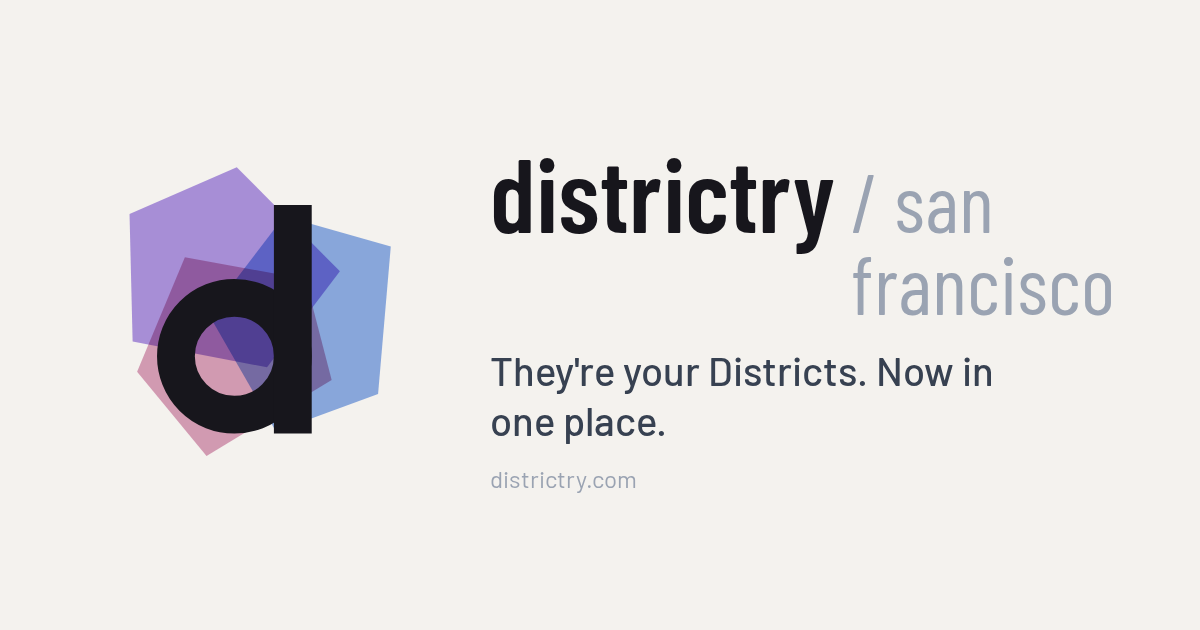
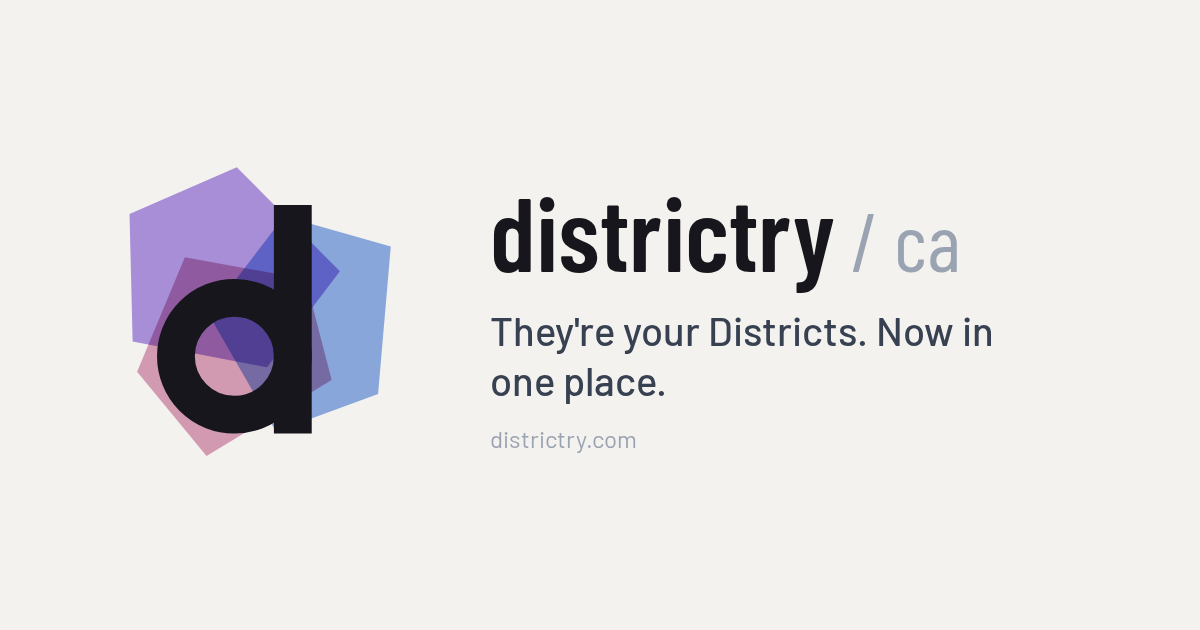
Label the social cards with the instance tag, not the place name
Adam: the long names cause formatting issues, and NYC and SF should be their
state codes rather than city names.

Both are the same fix — the label is now metros.json's `tag`: il, ny, ca, wi,
ia, mi.

The layout half is measurable. "new york city" and "san francisco" wrap to a
second line at 82px and push the strapline down; a two-letter tag never does,
and every future state stops being one long name away from the same problem.

The naming half is the stronger reason and it was already written down.
metros.json's own comment says `tag` is "the instance tag the brand spec sets in
the wordmark (districtry / il)" — so rendering `landing_name` was the card
disagreeing with the brand spec. And NY and CA are state codes on purpose even
though those two instances each serve one city: the tag IS the path, so a card
reading "new york city" over a link to /ny/ names two different things.

Docstring, CLAUDE.md, the CI step comment and the check's own message follow the
field that actually feeds it.

Claude-Session: https://claude.ai/code/session_01GToMhE9mvFjkBzVzZSKVdT

Changed region(s): [[0.4008, 0.2413, 0.925, 0.7238], [0.4008, 0.754, 0.5242, 0.7841]]

diff --git a/CLAUDE.md b/CLAUDE.md
@@ -188,7 +188,7 @@ All inside `index.html`, wrapped in one IIFE. The full contract and per-thread b
 
 All six instances are FOLDERS IN THIS REPO and all six are LIVE (R5; Wisconsin joined in place 2026-08-25 as the first post-consolidation state, Iowa 2026-08-27 as the second — the first to arrive with zero national-tier layers to lean on at any point, since Iowa has no bootstrap-era pre-built files the way Wisconsin's original four did; **Michigan 2026-09-03 as the third**, and the first to arrive DARK across three PRs — national tier, then the `county-commissioner` flagship, then go-live — rather than publishing on arrival): Illinois at `il/` → districtry.com/il/, New York City at `ny/` → districtry.com/ny/, San Francisco at `ca/` → districtry.com/ca/, Wisconsin at `wi/` → districtry.com/wi/, Iowa at `ia/` → districtry.com/ia/, Michigan at `mi/` → districtry.com/mi/.
 
-**MICHIGAN'S GO-LIVE FOUND FOUR THINGS THE WHOLE BATTERY HAD BEEN GREEN ON, and three of them were the same shape: a claim nothing compared against the thing it claimed.** (1) `mi/fonts/` did not exist while `mi/index.html` declared 18 `@font-face` rules against it — the app would have served in system fonts forever, silently — and `mi/og-image.png` did not exist while three tags named it. Neither was catchable: `validate_card_links.py` probes ABSOLUTE urls monthly and a relative `url(fonts/…)` "is not its subject at all", while an absolute url on our own unpublished path looks exactly like somebody else's outage. `scripts/validate_instance_assets.py` now checks every same-origin reference in every authored page against the tree, surface DISCOVERED, with recorded exemptions for Leaflet's own default icons. **THAT GATE ASKED WHETHER THE FILE EXISTS AND NEVER WHAT IS IN IT, and on 2026-09-13 that cost the fleet its social preview.** Adam shared an `/il/` permalink into a Signal group and the link preview showed **CHICAGO DISTRICT EXPLORER · chidistricts.com** — the pre-rebrand card — under a correct districtry title and description, because the title is a meta tag and the card is a PNG. Measured across all seven surfaces, FOUR were wrong: `il/` and `ny/` and `ca/` still on the retired brand with retired subdomains on them (`nyc.chidistricts.com`, `sf.chidistricts.com`) and SAN FRANCISCO'S CARD CARRYING CHICAGO'S FLAG STAR, plus the fleet root labelled **districtry / illinois**, which is one state on the front door of six. 97 of the site's 201 pages name one of those four. **THE THREE THAT WERE RIGHT ARE THE THREE `scripts/build_og_image.mjs` HAS EVER RENDERED** (wi, ia, mi) — the wrong four all predate it — so this was not decay but a renderer that was never run on the surfaces that already had a card. **THE LABEL IS NO LONGER AN ARGUMENT**: it comes from `metros.json`'s `landing_name`, the same field the landing page and coverage map read, because a hand-typed one is exactly how the root came to say illinois — the design source `districtry/OG Card.dc.html` hardcodes it, and it was copied. The root renders with NO label at all rather than an empty one. **AND THE RENDERER NOW RECORDS WHAT IT RENDERED** in `districtry/og-images.json`, so `--check` (Node, no browser, no network, in CI) asserts every surface has an entry, every entry's label still matches `metros.json`, every PNG still hashes to what the renderer wrote, and every card is 1200x630 — which fails on a card never rendered, one replaced by hand, and a `landing_name` changed without a re-render, all three negative-tested. **IT PROVES PROVENANCE AND NOT CORRECTNESS**, and says so in its own OK line: nothing here reads the pixels, so a card whose design is wrong still passes and only a person looking at it will catch that. The duplicate `districtry/og-districtry.png` was retired rather than re-rendered — it was byte-identical to the mislabelled root card and sat beside a paste-in `head-snippet.html` hardcoding "districtry — Illinois", which is the same bug packaged for the next state to paste. (2) `mi/sources.html` served **Iowa's entire identity block** — canonical, `og:url`, `og:site_name`, title and the whole ld+json graph — because the page was cloned from Iowa and only its GENERATED regions were ever regenerated. `page_consistency_test.mjs` passed it, because its canonical check was `!!document.querySelector("link[rel=canonical]")`: it asked whether the tag was THERE and never what it SAID. It now asserts canonical and `og:url` NAME THIS PAGE (all 31 sitemap pages self-canonicalise exactly, measured) and that a page's ld+json stays inside its own `/<tag>/`. **Two more claims joined it on 2026-09-13, both the same shape — something every page was assumed to have and nothing compared.** Six sitemap pages carried NO skip link and no `<main>` at all — the root, `traffic.html` and the four history pages — while the app and the twelve sub-pages carried both, so a keyboard reader met a different site depending where they landed; the gate now requires a skip link whose href RESOLVES (one pointing at an id nothing carries is worse than none, because it reads as present and does nothing) and a `<main>` for it to land in. And it sweeps **WCAG 2.5.8 target size at 390 and 1280 on every page**, which found four link rows short: the app's panel foot at a 2px row gap (16.5px links 18.5px apart), the landing and history footers' wrapped rows, and the map-tile banner's 21x19 dismiss floating over the map, where a miss pans the map. **The audit that reported the first of them had sampled four pages of 37**, which is the whole reason this sweeps every one. Three false positives had to be designed out first and each is written into the collector: a wrapped inline link's `getBoundingClientRect()` is the UNION of its lines (335x45 for one 13.5px footer link), so it measures per `getClientRects()` fragment; Leaflet's map container is focusable and fills the map, so an ANCESTOR is never a colliding neighbour; and 2.5.8's Inline exception wants three tests rather than one — an `<a>`, computed `display:inline`, and a parent whose remaining text is more than separator punctuation, because a row of links joined by `·` is a link LIST and that list is exactly what failed on three surfaces. The one target left under 24px is recorded in `TARGET_EXCEPTIONS` with the exception it claims: traffic.html's per-day chart columns, 4.7px wide at 390 and necessarily touching, covered by 2.5.8's **Equivalent** exception because the same numbers sit in the page's own "View as table" disclosure — and an entry there FAILS when nothing matches it, the property `ACCEPTED_DROPS` had to be given after the fact. (3) A dead `tigerStatewideLoader` helper, inherited from Iowa and never called, put a second `loadArcGISPointGeoJSON` call site in the file — and `build_privacy_page.py` MEASURES point-query layers by counting exactly those, so the published privacy page stated that a Michigan layer sends your exact selected point to a government server when none does. **A measurement is only as honest as the code it measures; dead code is not free.** (4) **THE FLEET BBOX IS THE PORTAL HAND-OFF BOX AND IS NOT THE INSTANCE'S `metro_bbox`.** Michigan's county fabric is water-inclusive, so the state bbox runs west across Lake Michigan to -90.42 and contains Chicago's own centre AND Wisconsin's — `validate_index.py` hard-failed on `il` and `wi`, and this was found only because the per-instance `validate_index` block had been skipped in favour of a curated gate list. **Run the workflow's own command list, never a remembered subset.** The shipped box is the county fabric clipped to `lng >= -87.60` (measured); six western-UP counties consequently hand off to Wisconsin, which is what they already did, and no rectangle can fix it because the western UP shares Wisconsin's longitudes — front-door routing was moved off the bbox tie-break on 2026-09-04 and now settles a CONTESTED point against each instance's own published coverage ring (7 misroutes of 28 real places down to 4); the four that remain sit west of the clipped bbox, which is still the cheap first pass, and reaching them needs Michigan's full bbox restored — an open question in `mi/WATCH.md`. **A smallest-bbox-AREA tie-break was measured and is NOT the fix: 7 wrong of 37, the same count as nearest-centre and wrong in different places.** The per-metro forks are retired; the old subdomains `nyc.`/`sf.chidistricts.com` now forward to those paths. **Chicago is still the reference implementation.** The metro-agnostic engine inside `index.html` is fenced with `/* ==== ENGINE:BEGIN <name> ==== */ … ENGINE:END` markers and must stay **byte-identical across forks**; everything city-specific those blocks reference lives in the `METRO:BEGIN config` block near the top of the script. When editing:
+**MICHIGAN'S GO-LIVE FOUND FOUR THINGS THE WHOLE BATTERY HAD BEEN GREEN ON, and three of them were the same shape: a claim nothing compared against the thing it claimed.** (1) `mi/fonts/` did not exist while `mi/index.html` declared 18 `@font-face` rules against it — the app would have served in system fonts forever, silently — and `mi/og-image.png` did not exist while three tags named it. Neither was catchable: `validate_card_links.py` probes ABSOLUTE urls monthly and a relative `url(fonts/…)` "is not its subject at all", while an absolute url on our own unpublished path looks exactly like somebody else's outage. `scripts/validate_instance_assets.py` now checks every same-origin reference in every authored page against the tree, surface DISCOVERED, with recorded exemptions for Leaflet's own default icons. **THAT GATE ASKED WHETHER THE FILE EXISTS AND NEVER WHAT IS IN IT, and on 2026-09-13 that cost the fleet its social preview.** Adam shared an `/il/` permalink into a Signal group and the link preview showed **CHICAGO DISTRICT EXPLORER · chidistricts.com** — the pre-rebrand card — under a correct districtry title and description, because the title is a meta tag and the card is a PNG. Measured across all seven surfaces, FOUR were wrong: `il/` and `ny/` and `ca/` still on the retired brand with retired subdomains on them (`nyc.chidistricts.com`, `sf.chidistricts.com`) and SAN FRANCISCO'S CARD CARRYING CHICAGO'S FLAG STAR, plus the fleet root labelled **districtry / illinois**, which is one state on the front door of six. 97 of the site's 201 pages name one of those four. **THE THREE THAT WERE RIGHT ARE THE THREE `scripts/build_og_image.mjs` HAS EVER RENDERED** (wi, ia, mi) — the wrong four all predate it — so this was not decay but a renderer that was never run on the surfaces that already had a card. **THE LABEL IS NO LONGER AN ARGUMENT**: it is the instance's `tag` from `metros.json` — il, ny, ca, wi, ia, mi — because a hand-typed one is exactly how the root came to say illinois: the design source `districtry/OG Card.dc.html` hardcodes it, and it was copied. The root renders with NO label at all rather than an empty one. **THE TAG RATHER THAN THE PLACE NAME**, decided the same day after a first pass rendered `landing_name`: the long names broke the layout — "new york city" and "san francisco" wrap to a second line at 82px and push the strapline down, and every future state is one long name from the same thing — and `metros.json`'s own comment already says what the card is meant to print, that `tag` is "the instance tag the brand spec sets in the wordmark (districtry / il)", so the place name was the card disagreeing with the brand spec. NY and CA are STATE codes even though those two instances serve one city each, because the tag IS the path: a card reading "new york city" over a link to `/ny/` names two different things. **AND THE RENDERER NOW RECORDS WHAT IT RENDERED** in `districtry/og-images.json`, so `--check` (Node, no browser, no network, in CI) asserts every surface has an entry, every entry's label still matches `metros.json`, every PNG still hashes to what the renderer wrote, and every card is 1200x630 — which fails on a card never rendered, one replaced by hand, and a `tag` changed without a re-render, all three negative-tested. **IT PROVES PROVENANCE AND NOT CORRECTNESS**, and says so in its own OK line: nothing here reads the pixels, so a card whose design is wrong still passes and only a person looking at it will catch that. The duplicate `districtry/og-districtry.png` was retired rather than re-rendered — it was byte-identical to the mislabelled root card and sat beside a paste-in `head-snippet.html` hardcoding "districtry — Illinois", which is the same bug packaged for the next state to paste. (2) `mi/sources.html` served **Iowa's entire identity block** — canonical, `og:url`, `og:site_name`, title and the whole ld+json graph — because the page was cloned from Iowa and only its GENERATED regions were ever regenerated. `page_consistency_test.mjs` passed it, because its canonical check was `!!document.querySelector("link[rel=canonical]")`: it asked whether the tag was THERE and never what it SAID. It now asserts canonical and `og:url` NAME THIS PAGE (all 31 sitemap pages self-canonicalise exactly, measured) and that a page's ld+json stays inside its own `/<tag>/`. **Two more claims joined it on 2026-09-13, both the same shape — something every page was assumed to have and nothing compared.** Six sitemap pages carried NO skip link and no `<main>` at all — the root, `traffic.html` and the four history pages — while the app and the twelve sub-pages carried both, so a keyboard reader met a different site depending where they landed; the gate now requires a skip link whose href RESOLVES (one pointing at an id nothing carries is worse than none, because it reads as present and does nothing) and a `<main>` for it to land in. And it sweeps **WCAG 2.5.8 target size at 390 and 1280 on every page**, which found four link rows short: the app's panel foot at a 2px row gap (16.5px links 18.5px apart), the landing and history footers' wrapped rows, and the map-tile banner's 21x19 dismiss floating over the map, where a miss pans the map. **The audit that reported the first of them had sampled four pages of 37**, which is the whole reason this sweeps every one. Three false positives had to be designed out first and each is written into the collector: a wrapped inline link's `getBoundingClientRect()` is the UNION of its lines (335x45 for one 13.5px footer link), so it measures per `getClientRects()` fragment; Leaflet's map container is focusable and fills the map, so an ANCESTOR is never a colliding neighbour; and 2.5.8's Inline exception wants three tests rather than one — an `<a>`, computed `display:inline`, and a parent whose remaining text is more than separator punctuation, because a row of links joined by `·` is a link LIST and that list is exactly what failed on three surfaces. The one target left under 24px is recorded in `TARGET_EXCEPTIONS` with the exception it claims: traffic.html's per-day chart columns, 4.7px wide at 390 and necessarily touching, covered by 2.5.8's **Equivalent** exception because the same numbers sit in the page's own "View as table" disclosure — and an entry there FAILS when nothing matches it, the property `ACCEPTED_DROPS` had to be given after the fact. (3) A dead `tigerStatewideLoader` helper, inherited from Iowa and never called, put a second `loadArcGISPointGeoJSON` call site in the file — and `build_privacy_page.py` MEASURES point-query layers by counting exactly those, so the published privacy page stated that a Michigan layer sends your exact selected point to a government server when none does. **A measurement is only as honest as the code it measures; dead code is not free.** (4) **THE FLEET BBOX IS THE PORTAL HAND-OFF BOX AND IS NOT THE INSTANCE'S `metro_bbox`.** Michigan's county fabric is water-inclusive, so the state bbox runs west across Lake Michigan to -90.42 and contains Chicago's own centre AND Wisconsin's — `validate_index.py` hard-failed on `il` and `wi`, and this was found only because the per-instance `validate_index` block had been skipped in favour of a curated gate list. **Run the workflow's own command list, never a remembered subset.** The shipped box is the county fabric clipped to `lng >= -87.60` (measured); six western-UP counties consequently hand off to Wisconsin, which is what they already did, and no rectangle can fix it because the western UP shares Wisconsin's longitudes — front-door routing was moved off the bbox tie-break on 2026-09-04 and now settles a CONTESTED point against each instance's own published coverage ring (7 misroutes of 28 real places down to 4); the four that remain sit west of the clipped bbox, which is still the cheap first pass, and reaching them needs Michigan's full bbox restored — an open question in `mi/WATCH.md`. **A smallest-bbox-AREA tie-break was measured and is NOT the fix: 7 wrong of 37, the same count as nearest-centre and wrong in different places.** The per-metro forks are retired; the old subdomains `nyc.`/`sf.chidistricts.com` now forward to those paths. **Chicago is still the reference implementation.** The metro-agnostic engine inside `index.html` is fenced with `/* ==== ENGINE:BEGIN <name> ==== */ … ENGINE:END` markers and must stay **byte-identical across forks**; everything city-specific those blocks reference lives in the `METRO:BEGIN config` block near the top of the script. When editing:
 
 - Don't edit inside an ENGINE fence unless the change will be ported to every sibling fork — and port it as the **actual git diff**, never by re-describing the feature in a prompt (same prompt ≠ same code; that's exactly how the forks drifted before the fences existed).
 - Region-agnostic changes land in this repo first; siblings apply the diff verbatim.

diff --git a/.claude/skills/steward/SKILL.md b/.claude/skills/steward/SKILL.md
@@ -74,7 +74,7 @@ python3 scripts/undeliverable.py                         # the shipped e-mail do
 python3 scripts/validate_skills.py                       # every skill's pointers resolve
 python3 scripts/validate_arcgis_format.py                # no app asks ArcGIS for f=geojson
 node scripts/esri_rings_test.mjs                          # ring nesting, on fixtures
-node scripts/build_og_image.mjs --check                    # every surface's social card is the one the renderer wrote, labelled as metros.json says (provenance, not pixels)
+node scripts/build_og_image.mjs --check                    # every surface's social card is the one the renderer wrote, labelled with its metros.json tag (provenance, not pixels)
 python3 scripts/validate_instance_registration.py         # every instance named in every table
 python3 scripts/validate_instance_assets.py               # every same-origin asset a page names exists
 python3 scripts/build_metro_outline.py --check           # IL ring + anchor registry
